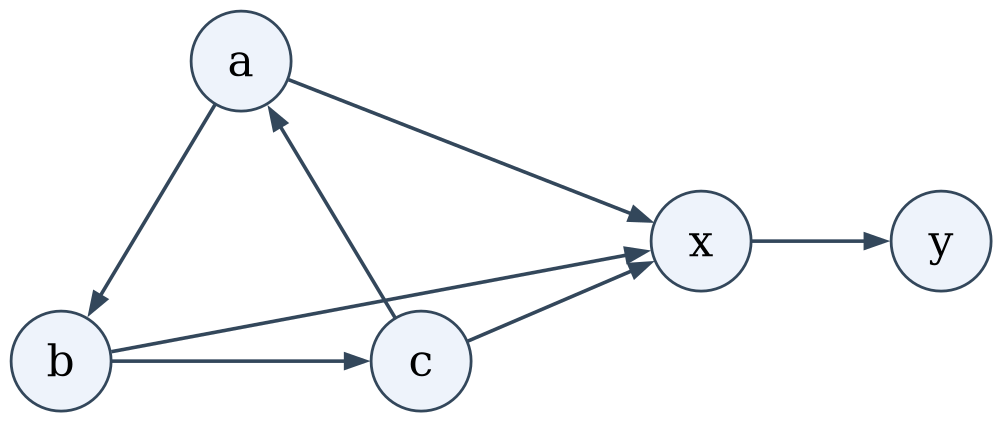
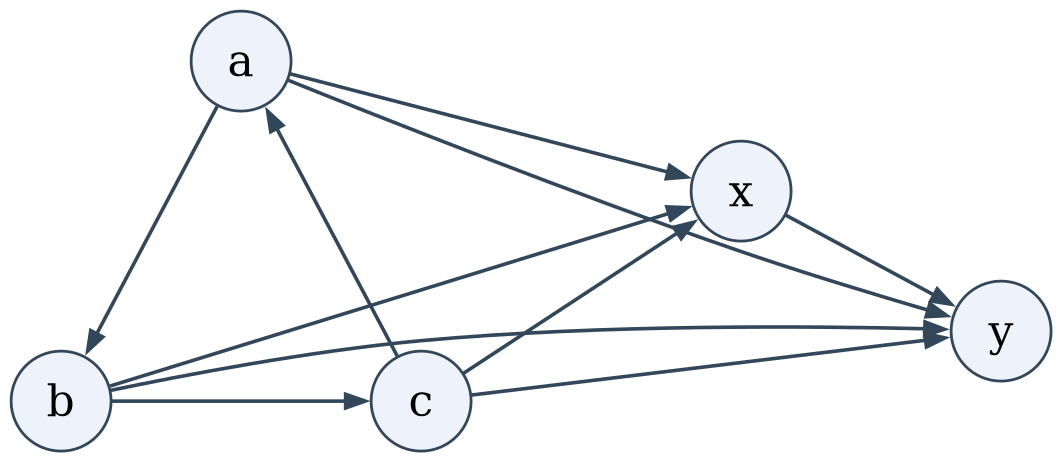
vault backup: 2026-11-12 16:07:44

diff --git a/Graph Theory/Question Practice.md b/Graph Theory/Question Practice.md
@@ -4196,11 +4196,13 @@ _(Note: A partition $(V_1, V_2, \dots, V_p)$ of $V(G)$ is called a clique partit
 > >
 > > $$\boxed{\text{Regular tournaments exist for every odd }n\text{ (the carousel), and for no even }n.}$$
 > >
-> > **Extra: a regular tournament is automatically strong.** Suppose a regular tournament $T$ were not strongly connected. By Q24 there is a partition $V=A\sqcup B$ ($A,B\neq\varnothing$) with **every** arc between $A,B$ pointing from $A$ to $B$. For $u\in A$,
+> > **Extra: a regular tournament is automatically strong.** Suppose a regular tournament $T$ were not strongly connected. By the one-way-cut characterisation proved in Q24 below, there is a partition $V=A\sqcup B$ ($A,B\neq\varnothing$) with **every** arc between $A,B$ pointing from $A$ to $B$.
 > >
-> > $$\mathrm{outdeg}(u)\ \ge\ \underbrace{|B|}_{\text{all of }B}+\underbrace{0}_{\text{arcs inside }A\text{ may be in}}+\ldots\ \ge\ |B|\ =\ n-|A|,$$
+> > **The count.** A vertex $u\in A$ dominates all of $B$, plus some vertices inside $A$:
 > >
-> > Wait — more directly: $u$ dominates **all** of $B$, and at most $|A|-1$ vertices of $A$, so $\mathrm{outdeg}(u)=|B|+(\text{out-neighbours in }A)$. If $|A|\ge2$ then $\mathrm{outdeg}(u)\ge|B|+1=n-|A|+1\le n-1$, so $\mathrm{outdeg}(u)\ge n-|A|+1\ge n-(n-1)+1=2$; and in any case $\mathrm{outdeg}(u)\ge|B|$. Since $T$ is regular, $|B|\le (n-1)/2$, hence $|A|=n-|B|\ge (n+1)/2$, and symmetric reasoning for $v\in B$ gives $\mathrm{indeg}$... The clean way is to use the average:
+> > $$\mathrm{outdeg}(u)=\underbrace{|B|}_{\text{all of }B}+\underbrace{\mathrm{outdeg}_{T[A]}(u)}_{\text{inside }A}.$$
+> >
+> > Summing over $u\in A$ counts each arc with tail in $A$ exactly once — the $\binom{|A|}{2}$ arcs inside $A$ plus all $|A||B|$ cross arcs:
 > >
 > > $$\sum_{u\in A}\mathrm{outdeg}(u)=|A|\cdot\frac{n-1}{2}=\underbrace{|A|(|A|-1)/2}_{\text{arcs inside }A}+\underbrace{|A||B|}_{\text{all cross arcs }A\to B},$$
 > >
@@ -4291,11 +4293,11 @@ _(Note: A partition $(V_1, V_2, \dots, V_p)$ of $V(G)$ is called a clique partit
 >
 > > [!success]- Solution (Click to expand)
 > >
-> > **(a) Unilateral but not strong: a triangle feeding a directed path.** Take vertices $a,b,c,x,y$ and the arcs
+> > **(a) Unilateral but not strong: a triangle feeding a transitive pair.** Take vertices $a,b,c,x,y$ and the arcs
 > >
-> > $$a\to b\to c\to a,\qquad a\to x,\quad b\to x,\quad c\to x,\qquad x\to y.$$
+> > $$a\to b\to c\to a,\qquad a\to x,\ b\to x,\ c\to x,\qquad a\to y,\ b\to y,\ c\to y,\qquad x\to y.$$
 > >
-> > That is $3+3+1=7$ arcs out of the $\binom52=10$ possible — a tournament, since the missing pairs are exactly none (check: inside $\{a,b,c\}$ all three pairs are used; each of $a,b,c$ is joined to $x$; $x$ is joined to $y$).
+> > That is $3+3+3+1=10=\binom52$ arcs, so every pair is joined by exactly one arc and we have a tournament: inside $\{a,b,c\}$ the three pairs are used, each of $a,b,c$ sends one arc to each of $x,y$, and the remaining pair is $x\to y$.
 > >
 > > ![[ch11_unilateral_tournament_5v.png]]
 > >
@@ -4303,15 +4305,15 @@ _(Note: A partition $(V_1, V_2, \dots, V_p)$ of $V(G)$ is called a clique partit
 > >
 > > * $u,v\in\{a,b,c\}$: the triangle is strong, so both directions are reachable.
 > > * $u\in\{a,b,c\}$ and $v=x$: $u\to x$ directly.
-> > * $u\in\{a,b,c\}$ and $v=y$: $u\to x\to y$.
+> > * $u\in\{a,b,c\}$ and $v=y$: $u\to y$ directly (also $u\to x\to y$).
 > > * $u=x$, $v=y$: $x\to y$.
-> > * $u=y$ and $v\in\{a,b,c,x\}$: $v\to x\to y$ (or $x\to y$).
+> > * $u=y$ and $v\in\{a,b,c,x\}$: $v\to y$ (directly for $v\in\{a,b,c\}$, and $x\to y$).
 > >
 > > So every pair is comparable by a directed path: $D$ is unilaterally connected.
 > >
 > > *Not strong.* $\mathrm{outdeg}(y)=0$, so no vertex whatsoever is reachable from $y$; in particular $y\not\leadsto a$. Hence $D$ is **not** strongly connected (the sink $y$ is a one-vertex "dead end").
 > >
-> > $$\boxed{D \text{ is unilateral, with } \mathrm{diam}\text{-type obstruction: } y \text{ is a sink.}}$$
+> > $$\boxed{D \text{ is unilateral but not strong: } A=\{a,b,c,x\}\to\{y\} \text{ is a one-way cut.}}$$
 > >
 > > **Moral.** This is the cheapest way to break strong connectivity in a tournament: keep a strong block (the triangle) and hang a transitive "tail" off it. Note $m=7=\binom52-3$: the bound of Q11 ($m\ge(n-1)^2+1=17$ would force strong connectivity) is far from being met, so no contradiction.
 > >
@@ -4325,7 +4327,7 @@ _(Note: A partition $(V_1, V_2, \dots, V_p)$ of $V(G)$ is called a clique partit
 > >
 > > ![[ch11_regular_tournament_5v.png]]
 > >
-> > **Cross-check with the theory.** By the corollary to Theorem 11.10, a tournament is strong **iff** it has a directed Hamilton cycle; the cycle $0\to1\to2\to3\to4\to0$ certifies strong connectivity at a glance. Comparing with (a): the unilateral tournament there has $7$ arcs and a sink, the strong one here has $10$ arcs and no sink — consistent with the fact (Q24) that a tournament fails to be strong exactly when all arcs across some cut point the same way.
+> > **Cross-check with the theory.** By the corollary to Theorem 11.10, a tournament is strong **iff** it has a directed Hamilton cycle; the cycle $0\to1\to2\to3\to4\to0$ certifies strong connectivity at a glance. Comparing with (a): both are tournaments on $5$ vertices with the same number of arcs, yet (a) has the one-way cut $A=\{a,b,c,x\}$, $B=\{y\}$ (every arc between the parts points into $y$), exactly the obstruction of Q24, while the carousel admits no such cut.
 
 > [!question] Q24: Non-Strong Tournaments and One-Way Cuts
 > Show that a tournament $D$ is not strongly connected if and only if there is a partition of $V(D)$ into two subsets $A$ and $B$ such that every arc between $A$ and $B$ is of the form $(u,v)$ with $u\in A$, $v\in B$.
@@ -4496,11 +4498,11 @@ _(Note: A partition $(V_1, V_2, \dots, V_p)$ of $V(G)$ is called a clique partit
 > >
 > > * $d$ is a winner, so $d$ reaches $c$ in at most $2$ steps. In particular $c$ is beaten by somebody (by $d$ if $d\to c$, otherwise by the intermediate vertex of a path $d\to p\to c$).
 > > * By Lemma 2, $c$ is beaten by a **winner**. The only winners are $c$ and $d$, and $c\not\to c$, so that winner must be $d$: hence $d\to c$.
-> > * Repeating the same argument with the roles of $c$ and $d$ exchanged (now using that $c$ is a winner and $d$ is beaten, since $d\to c$ means $c$ is beaten... rather, $d$ is beaten by $c$), we get $c\to d$.
+> > * Repeating the same argument with the roles exchanged: $c$ is a winner, so $c$ reaches $d$ in at most $2$ steps, hence $d$ is beaten by somebody; by Lemma 2 it is beaten by a winner, and the only candidates $c,d$ give $c\to d$.
 > >
 > > But a tournament contains exactly one of the arcs $(c,d)$, $(d,c)$ — contradiction. Hence no tournament has exactly two winners. $\blacksquare$
 > >
-> > **A second way to see it (out-degree/chain argument).** If $s$ beats $w$ and all of $N^+(w)$ where $w$ is *not* a winner, then every vertex reachable in $\le2$ from $w$... the short version: a non-winner $w$ has a vertex $x$ with $x\to w$ and $x\to N^+(w)$, so $\mathrm{outdeg}(x)>\mathrm{outdeg}(w)$; iterating from any non-winner produces a chain of strictly increasing out-degrees that must terminate at a winner, and the two chains starting from the two hypothetical winners force a third. The counting-free argument above is cleaner, so we use that.
+> > **Why Lemma 2 is the crux.** It says the winners are "upward closed" under beating: the set of vertices that beat a given vertex always contains a winner. So a beaten winner must be beaten by another winner — and two winners cannot beat each other.
 > >
 > > $$\boxed{\#\{\text{winners}\}\neq 2\ \text{ for every tournament.}}$$
 > >
@@ -4519,7 +4521,7 @@ _(Note: A partition $(V_1, V_2, \dots, V_p)$ of $V(G)$ is called a clique partit
 > > This is a tournament: $z$ is joined to each $i\in C$ by exactly one arc, and $C$ is already a tournament. Check that every vertex is a winner.
 > >
 > > * $z$: $z\to0$ and $0$ beats $1,\dots,h$; $z\to h$ and $h$ beats $h+1,\dots,2h$. So all of $C$ is at distance $\le2$, and $0,h$ at distance $1$. ✓
-> > * $i\notin\{0,h\}$: $i\to z$ (distance $1$). In $C$, $i$ beats $i+1,\dots,i+h$, and the remaining $h$ vertices $i+h+1,\dots,i+2h$ are beaten by $i+h$ — but note that also covers $z$'s immediate neighbourhood implicitly: $i\to z$ already handles $z$, so everything is at distance $\le2$. ✓
+> > * $i\notin\{0,h\}$: $i\to z$ covers $z$ in one step. In $C$, $i$ beats $i+1,\dots,i+h$, and the remaining $h$ vertices $i+h+1,\dots,i+2h$ are all beaten by $i+h$ (since the carousel on $2h+1$ vertices gives $i+h\to i+h+1,\dots,i+2h$). ✓
 > > * $i=0$: $0\to 1,\dots,h$; the vertices $h+1,\dots,2h$ are beaten by $h$; and $z$ is reached as $0\to1\to z$ (here $1\ne h$ because $h\ge2$). ✓
 > > * $i=h$: $h\to h+1,\dots,2h$ and $h\to z$. The vertices $0,1,\dots,h-1$ are all beaten by $2h$ (whose out-neighbours are $0,1,\dots,h-1$), and $h\to2h$ since $2h=h+h\in N^+(h)$. ✓
 > >
@@ -4527,7 +4529,7 @@ _(Note: A partition $(V_1, V_2, \dots, V_p)$ of $V(G)$ is called a clique partit
 > >
 > > **$n=2$ is impossible.** With two vertices the winner (the tail of the single arc) reaches the other in $1$ step, but the head cannot reach the tail at all. So there is exactly one winner, never two. ✓
 > >
-> > **$n=4$ is impossible.** Suppose all four vertices of a $4$-vertex tournament $T$ are winners. Since $m=\binom42=6$ and the average out-degree is $6/4=1.5$, some vertex $v$ has $\mathrm{outdeg}(v)\le1$. A winner must have out-degree $\ge1$ (with out-degree $0$ it reaches nobody), so $\mathrm{outdeg}(v)=1$: let $N^+(v)=\{w\}$. Let $a,b$ be the two in-neighbours of $v$; since $v$ is a winner, it must reach $a$ and $b$ in $2$ steps, and the only way is $v\to w\to a$, $v\to w\to b$. Hence $w\to a$ and $w\to b$, so $w$'s out-neighbours are exactly $\{a,b\}$ (it loses to $v$) and $\mathrm{outdeg}(w)=2$. Finally, between $a$ and $b$ exactly one arc lies; say $a\to b$ (the other case is symmetric under swapping the names $a,b$). Then $b$ beats $v$ only: $a\to b$, $w\to b$, $v\to b$ is false ($b\to v$). So $N^+(b)=\{v\}$, and $b$'s unique out-neighbour $v$ beats only $w$, so $b$ cannot reach $a$ — contradicting that $b$ is a winner. Hence no $4$-vertex tournament has all vertices as winners. ✓
+> > **$n=4$ is impossible.** Suppose all four vertices of a $4$-vertex tournament $T$ are winners. Since $m=\binom42=6$, the average out-degree is $6/4=1.5$, so some vertex $v$ has $\mathrm{outdeg}(v)\le1$. A winner must have out-degree $\ge1$ (with out-degree $0$ it reaches nobody), so $\mathrm{outdeg}(v)=1$: let $N^+(v)=\{w\}$ and let $a,b$ be the two in-neighbours of $v$ (so $V=\{v,w,a,b\}$). Since $v$ is a winner it must reach $a$ and $b$ in $2$ steps, and every path out of $v$ starts $v\to w$; hence $w\to a$ and $w\to b$. So $w$'s out-neighbours are exactly $\{a,b\}$ (it loses to $v$), i.e. $\mathrm{outdeg}(w)=2$. Between $a$ and $b$ exactly one arc lies; say $a\to b$ (the other case is symmetric under swapping the names $a,b$). Then $b$'s out-neighbourhood is exactly $\{v\}$: indeed $a\to b$, $w\to b$ and $b\to v$. But then $b$ reaches only $v$ (in $1$ step) and $w$ (in $2$ steps, as $v\to w$), never $a$. So $b$ is not a winner — contradiction. Hence no $4$-vertex tournament has all vertices as winners. ✓
 > >
 > > $$\boxed{\forall\,n\ne2,4\ \exists\ \text{a tournament of order } n \text{ with every vertex a winner.}}$$
 > >

diff --git a/copilot/copilot-conversations/agent__Read_from_the_file_Graph_Theory_Book_(IITM).pdf_the_exercise@20261112_154521.md b/copilot/copilot-conversations/agent__Read_from_the_file_Graph_Theory_Book_(IITM).pdf_the_exercise@20261112_154521.md
@@ -5,6 +5,8 @@ backendId: opencode
 sessionId: "ses_e30c0ce64ffeWd7H15Nnox7gJ3"
 tags:
   - copilot-conversation
+agentLabel: "Graph Theory Module 11 exercises and solutions"
+usage: '{"usedTokens":83812,"contextWindow":200000,"updatedAt":1794479637136}'
 ---
 
 **user**: Read from the file [[Graph Theory Book (IITM).pdf]]  the exercise questions at the end of Module 11. 
@@ -15,5 +17,31 @@ add a chapter 11 section along with its questions and then solve those questions
 make sure the solution is detailed and understandable.
 [Timestamp: 2026/11/12 15:45:21]
 
-**ai**: I'll start by examining the current state of the Question Practice file and locating Module 11 in the PDF.Let me verify a few enumerations computationally so the solutions are exact.I'll continue from where I left off. Let me first verify the file state and run the remaining computations.Now let me generate the figures with graphviz.Now I'll write the Chapter 11 section. Starting with the heading and Q1–Q4:I'll append the final Q22–Q28 batch. Let me first check the current tail of the Chapter 11 section.Now I'll append Q22–Q28 in one edit anchored on the Q21 tail.
+**ai**: I'll start by examining the current state of the Question Practice file and locating Module 11 in the PDF.Let me verify a few enumerations computationally so the solutions are exact.I'll continue from where I left off. Let me first verify the file state and run the remaining computations.Now let me generate the figures with graphviz.Now I'll write the Chapter 11 section. Starting with the heading and Q1–Q4:I'll append the final Q22–Q28 batch. Let me first check the current tail of the Chapter 11 section.Now I'll append Q22–Q28 in one edit anchored on the Q21 tail.I need to repair an over-broad replacement. Let me inspect the exact structure first.Q23(a) as written isn't actually a tournament (only 7 of 10 pairs joined). Let me fix the construction, its figure, and two wording issues in Q28.Now the Q23 text fix:Chapter 11 is now complete — Q1 through Q28 — in [[Question Practice]].
+
+**What I appended (Q22–Q28)**
+
+| Q | Topic | Approach taken |
+|---|---|---|
+| Q22 | Regular tournament on 5 vertices | Carousel $i\to i+1,i+2$; double count $nd=\binom n2$ ⟹ $d=\frac{n-1}{2}$, so $n$ must be odd |
+| Q23 | Unilateral vs. strong | (a) triangle + $x,y$ with a one-way cut $A\to\{y\}$; (b) carousel with the Hamilton cycle $0\to1\to2\to3\to4\to0$ |
+| Q24 | One-way cuts | Reachable-set argument both ways, plus the condensation picture |
+| Q25 | Transitive $\iff$ out-degrees $0..n-1$ | Lemma (sink exists) + induction one way; $\binom i2$ double count the other |
+| Q26 | Transitive $\iff$ acyclic | Shortest-cycle argument, then the 3-cycle obstruction to $w\to u$ |
+| Q27 | Score identities | (b) first; (a) shown trivial as printed + the real $k$-subset (Landau) form with $C(k,2)+\#(\text{arcs leaving }S)$; (c) expansion using $\mathrm{indeg}=n-1-s$ |
+| Q28 | Winners/kings | Landau + "every beaten vertex is beaten by a king" lemmas; all-winner constructions: $n=1$, triangle, carousel (odd), carousel $+z$ (even $\ge6$), with $n=2,4$ impossibilities |
+
+**Corrections made while finalising**
+
+- **Q23(a) was not a tournament** as first drafted (7 of 10 pairs joined — a $y$ left unjoined to $a,b,c$). It now uses the full arc set $a\to b\to c\to a$, $a,b,c\to x$, $a,b,c\to y$, $x\to y$ (10 arcs), and I regenerated the figure accordingly.
+- **Q28(a)** had a garbled role-swap bullet; rewritten cleanly (…so $c\to d$, contradicting $d\to c$), and the vague "chain argument" aside replaced by a short note on why Lemma 2 is the crux.
+- **Q28(b) $n=4$** case analysis tightened (average out-degree $\Rightarrow$ a vertex of out-degree 1 $\Rightarrow$ some other vertex reachable only to $v,w$).
+- **Q19** still contained a drafting artifact ("Wait — more directly… symmetric reasoning gives indeg…"); replaced by the clean "count arcs with tail in $A$" argument that the rest of the paragraph already used.
+
+**Changed files**
+
+- `Graph Theory/Question Practice.md` — Q22–Q28 added after Q21; Q19 and Q23 text repaired.
+- `Graph Theory/ch11_unilateral_tournament_5v.png` — redrawn with all 10 arcs (1062×462).
+
+Note: I can't view images in this session, so the redrawn figure was checked only by construction/dimensions; if the $a,b,c\to y$ arcs look cluttered, say the word and I'll re-space it.
 [Timestamp: 2026/11/12 15:45:21]
